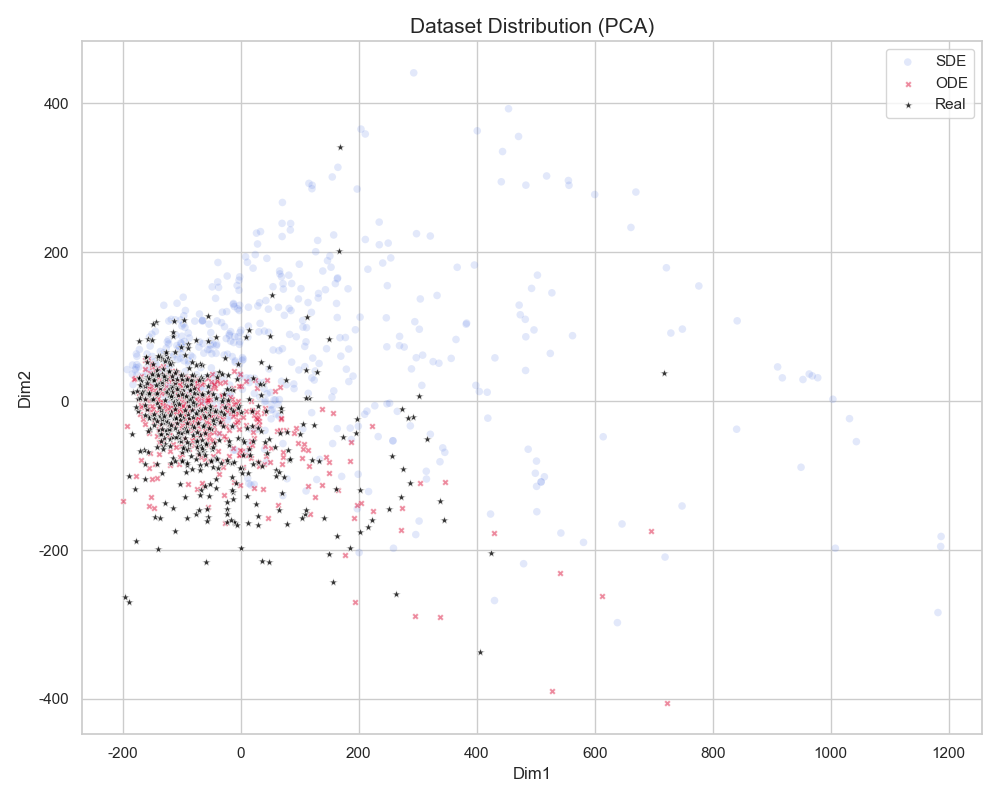
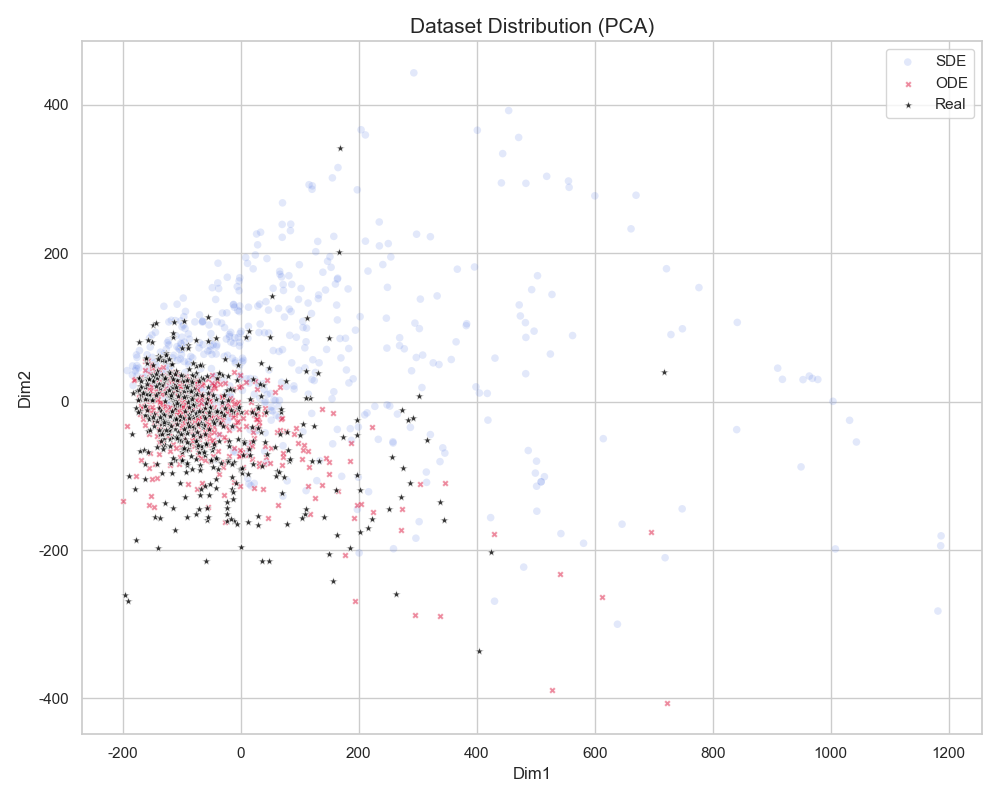
SCALING NOT WORKING

diff --git a/data_loader.py b/data_loader.py
@@ -21,7 +21,7 @@ from systems.ogtt_simul import OgttSimul
 
 # External function for parallel data generation
 def _generate_one_sample(args):
-    system, config, seed, dist_params = args
+    system, config, seed, dist_params, diff_scale = args
     
     np.random.seed(seed)
     
@@ -60,8 +60,13 @@ def _generate_one_sample(args):
     
     # 2. Simulation (SDE vs ODE)
     sys_instance = system() if isinstance(system, type) else system
+    sys_instance.diffusion_scale = diff_scale
+ 
+        
+    
     if getattr(config, 'USE_SDE', False):
         # SDE Solver: Euler-Maruyama
+        print(f"[DEBUG Worker] diffusion_scale: {getattr(sys_instance, 'diffusion_scale', 'Missing')}")
         y_full = euler_maruyama(
             sys_instance.drift_func,
             sys_instance.diffusion_func,
@@ -170,8 +175,8 @@ class DataGenerator:
             print("Data-driven distribution parameters file not found. Using uniform sampling.")
 
     def generate_data(self):
-            scale_val = getattr(self.config, 'DIFFUSION_SCALE', 'Not Found')
-            print(f"[DEBUG] Config DIFFUSION_SCALE: {scale_val}")
+            #scale_val = getattr(self.config, 'DIFFUSION_SCALE', 'Not Found')
+            #print(f"[DEBUG] Config DIFFUSION_SCALE: {scale_val}")
             # Data Save
             data_root = Path('data')
             save_dir = data_root / self.config.SYSTEM_NAME
@@ -208,7 +213,7 @@ class DataGenerator:
             seeds = np.random.randint(0, 100000, size=num_samples)
             
             # 각 작업에 (system, config, seed, dist_params) 튜플 전달
-            args_list = [(self.system, self.config, seeds[i], self.dist_params) for i in range(num_samples)]
+            args_list = [(self.system, self.config, seeds[i], self.dist_params, scale_factor) for i in range(num_samples)]
             
             observed_data = []
             hidden_data = []
